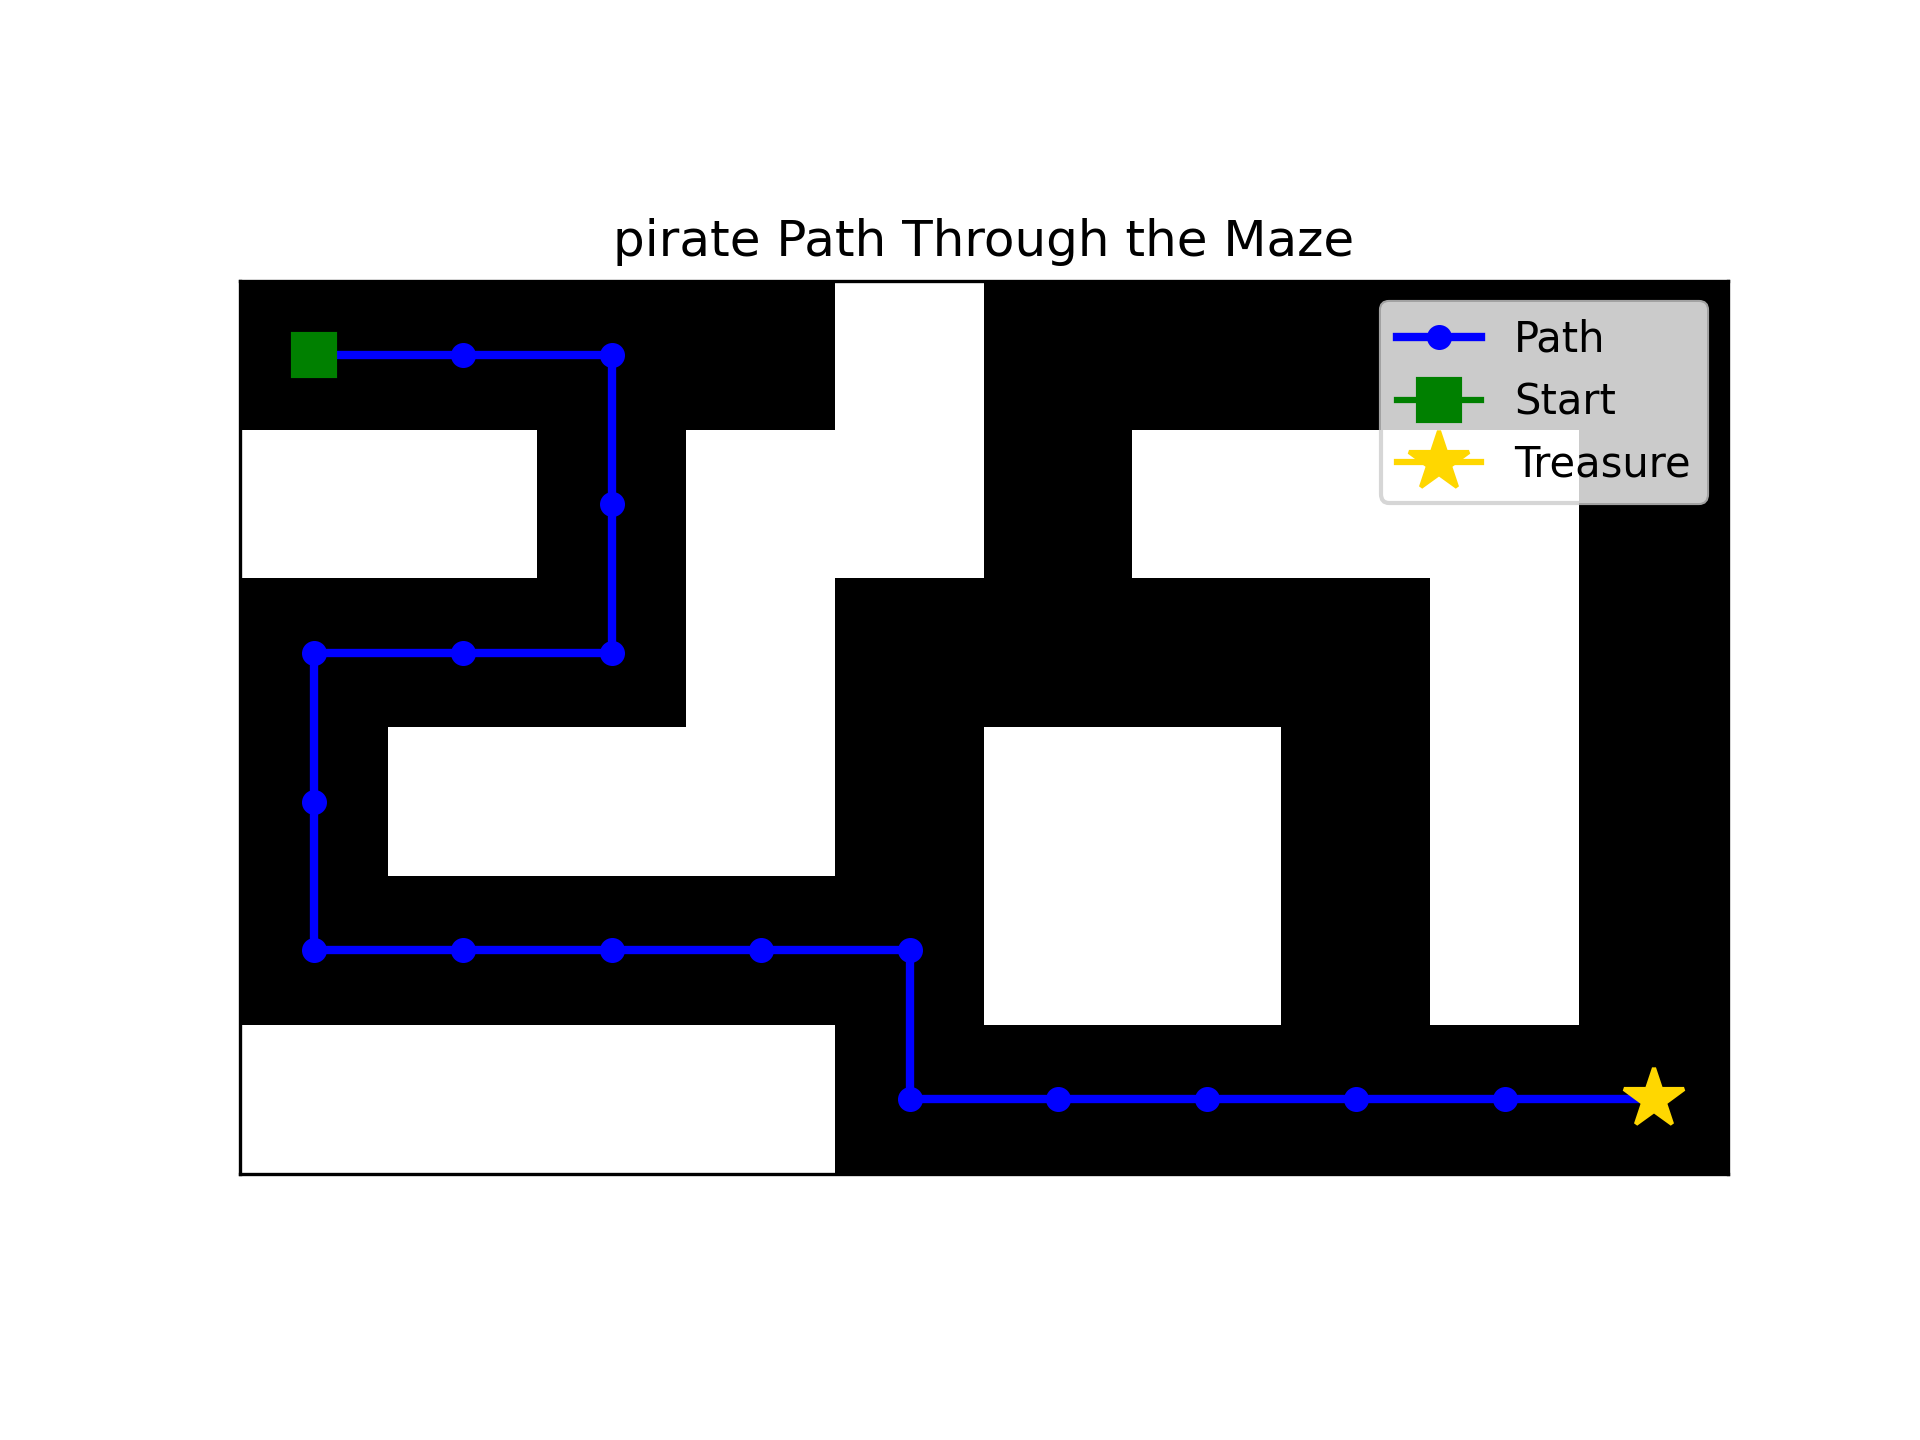
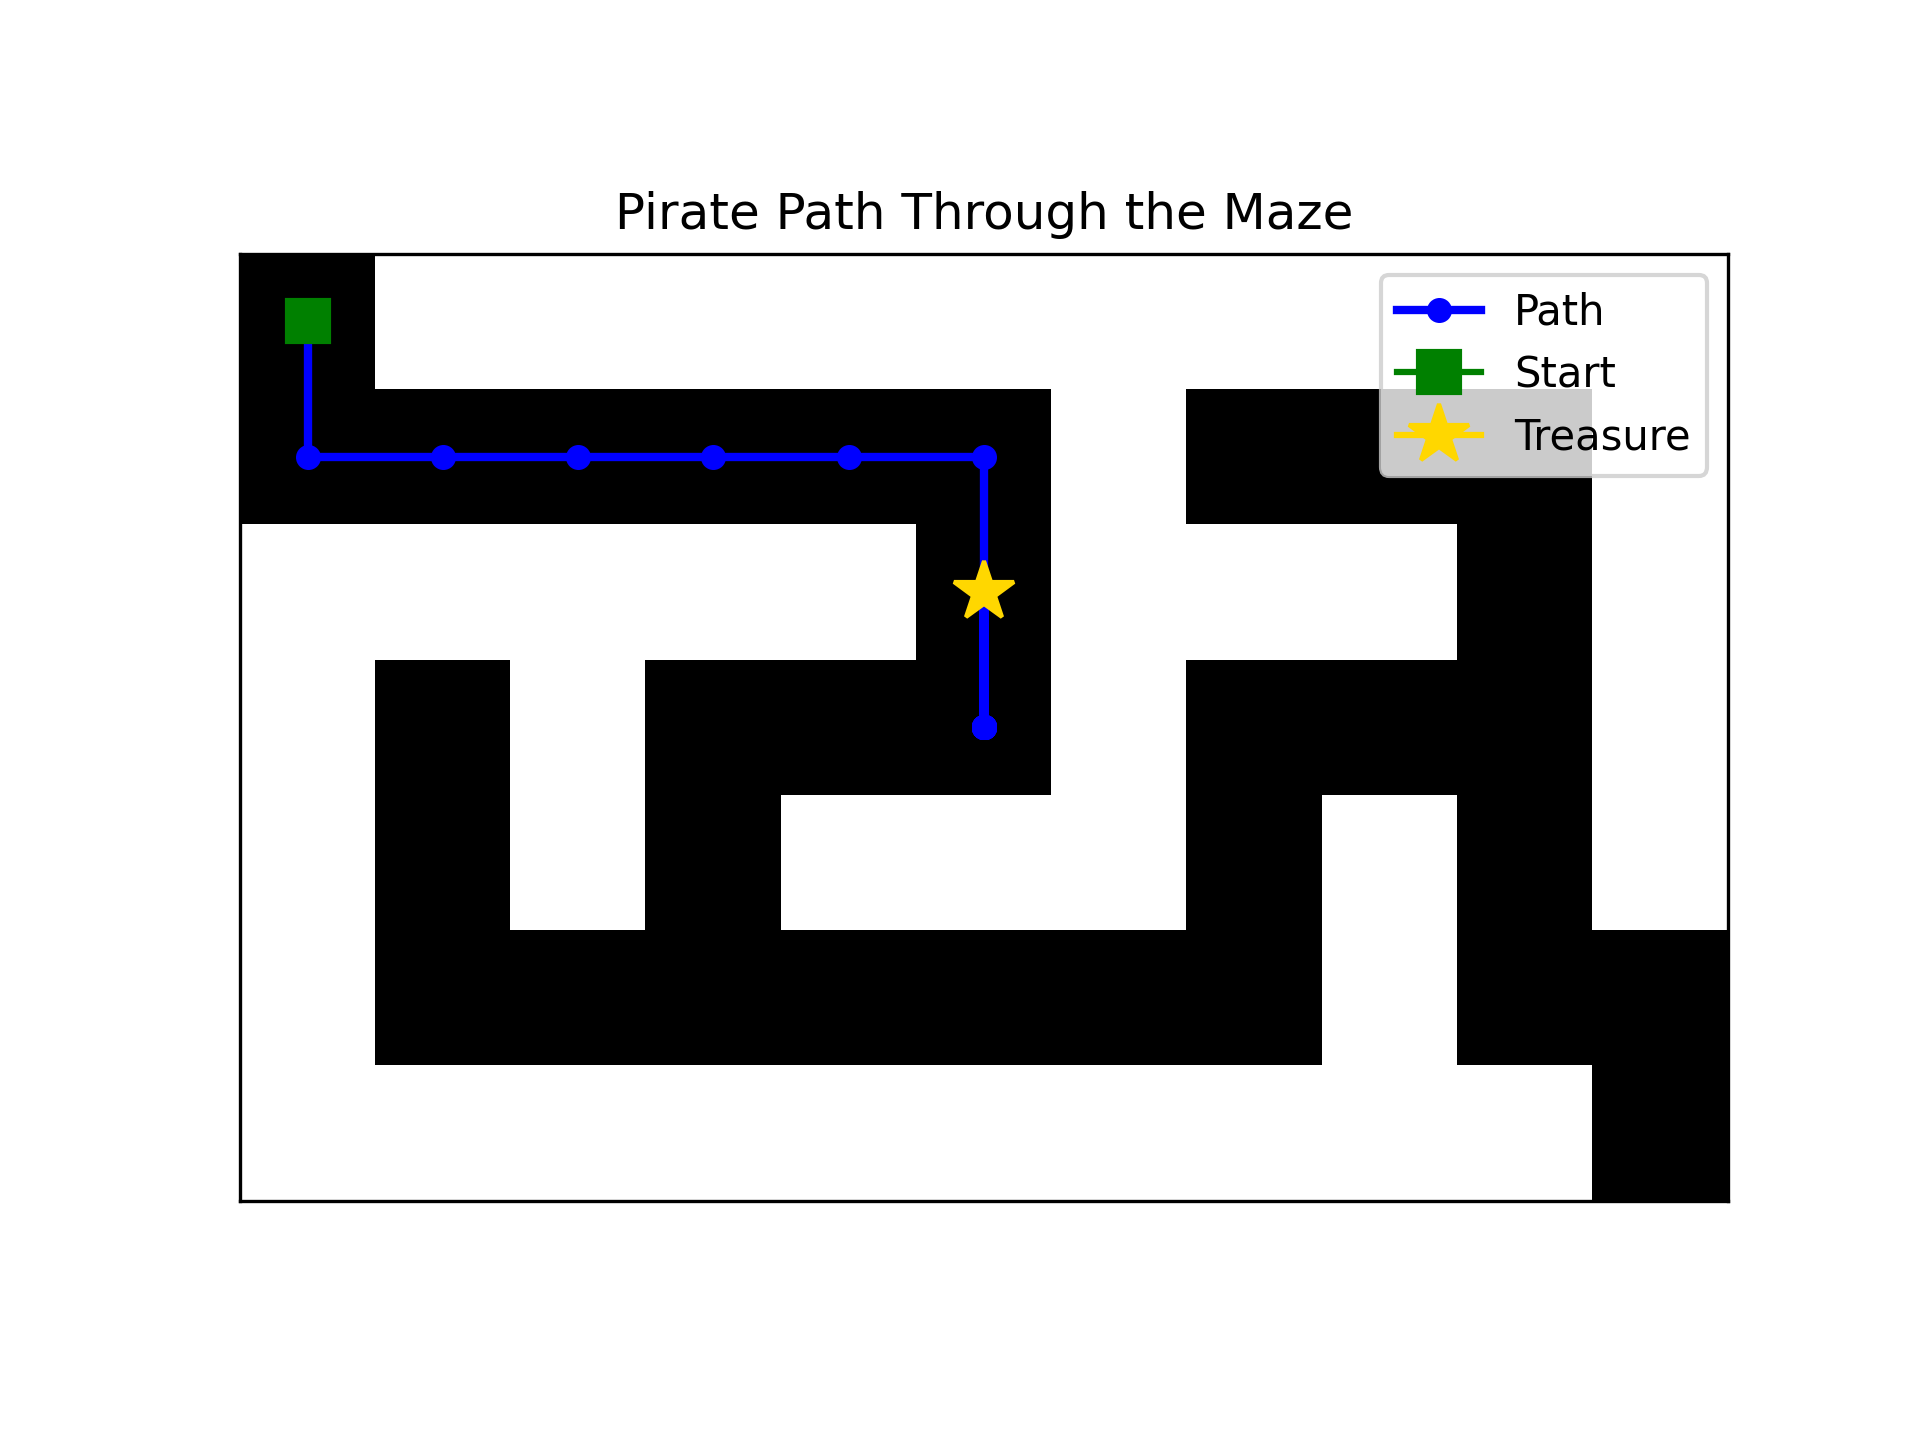
Converted inner repo to regular folder

diff --git a/TreasureHuntGame/index.html b/TreasureHuntGame/index.html
@@ -1,67 +1,92 @@
 <!DOCTYPE html>
 <html lang="en">
 <head>
-  <meta charset="UTF-8">
-  <title>Treasure Hunt AI Maze Solver</title>
+  <meta charset="UTF-8" />
+  <meta name="viewport" content="width=device-width, initial-scale=1.0"/>
+  <title>Treasure Hunt AI Agent</title>
+  <script src="https://cdn.jsdelivr.net/npm/chart.js"></script>
   <style>
     body {
-      font-family: sans-serif;
-      max-width: 800px;
-      margin: auto;
-      padding: 2rem;
-      background: #f8f8f8;
-    }
-    h1 {
-      color: #333;
+      font-family: Arial, sans-serif;
+      text-align: center;
+      background: #f0f0f0;
+      padding: 20px;
     }
     img {
-      max-width: 100%;
+      max-width: 90%;
       height: auto;
-      border: 1px solid #ccc;
-      margin-top: 1rem;
+      margin: 20px 0;
+      border: 4px solid #333;
     }
-    code {
-      background: #eee;
-      padding: 0.2rem 0.4rem;
-      border-radius: 4px;
-    }
-    pre {
-      background: #eee;
-      padding: 1rem;
-      border-radius: 4px;
-      overflow-x: auto;
+    canvas {
+      max-width: 800px;
+      margin: 40px auto;
+      display: block;
     }
   </style>
 </head>
 <body>
-  <h1>🧠 Treasure Hunt AI Maze Solver</h1>
+  <h1>Treasure Hunt AI Agent</h1>
 
-  <p>
-    This Python-based project generates solvable mazes and trains an AI agent to navigate them using a reinforcement learning algorithm accelerated by pathfinding techniques.
-  </p>
+  <h2>Final Maze Path</h2>
+  <img src="pirate_path.png" alt="Maze with Agent Path" />
 
-  <h2>✨ Features</h2>
-  <ul>
-    <li>Procedural maze generation</li>
-    <li>Pathfinding-enhanced reinforcement learning</li>
-    <li>Real-time solving visualization (optional demo)</li>
-  </ul>
+  <h2>Agent Performance Over Episodes</h2>
+  <canvas id="episodeChart"></canvas>
 
-  <h2>🎥 Demo</h2>
-  <p>If you've added a demo, it will appear below:</p>
-  <img src="demo.gif" alt="AI solving a maze">
+  <script>
+    fetch("episode_rewards.json")
+      .then(response => {
+        if (!response.ok) {
+          throw new Error(`HTTP error! status: ${response.status}`);
+        }
+        return response.json();
+      })
+      .then(data => {
+        const ctx = document.getElementById('episodeChart').getContext('2d');
 
-  <h2>📦 Source Code</h2>
-  <p>
-    <a href="https://github.com/Chart5893/Chart5893.github.io/tree/main/TreasureHuntGame" target="_blank">View code on GitHub</a>
-  </p>
-
-  <h2>🚀 How to Run</h2>
-  <pre>
-git clone https://github.com/Chart5893/Chart5893.github.io
-cd TreasureHuntGame
-python main.py
-  </pre>
-
+        new Chart(ctx, {
+          type: 'line',
+          data: {
+            labels: data.map((_, i) => i + 1), // Episodes 1 to N
+            datasets: [{
+              label: 'Total Reward per Episode',
+              data: data,
+              borderColor: 'blue',
+              backgroundColor: 'lightblue',
+              fill: false,
+              tension: 0.2,
+            }]
+          },
+          options: {
+            responsive: true,
+            plugins: {
+              legend: {
+                display: true,
+                position: 'top'
+              }
+            },
+            scales: {
+              x: {
+                title: {
+                  display: true,
+                  text: 'Episode'
+                }
+              },
+              y: {
+                title: {
+                  display: true,
+                  text: 'Total Reward'
+                }
+              }
+            }
+          }
+        });
+      })
+      .catch(err => {
+        console.error("Failed to load episode_rewards.json", err);
+        document.getElementById('episodeChart').insertAdjacentHTML('afterend', '<p style="color: red;">Failed to load training data. Make sure episode_rewards.json is in the same directory as this HTML file.</p>');
+      });
+  </script>
 </body>
 </html>

diff --git a/TreasureHuntGame/main.py b/TreasureHuntGame/main.py
@@ -1,10 +1,11 @@
 import matplotlib.pyplot as plt
 import numpy as np
+import json
 from maze_generator import generate_maze
 from TreasureMaze import TreasureMaze
 from GameExperience import GameExperience
 from tensorflow.keras.models import Sequential
-from tensorflow.keras.layers import Dense 
+from tensorflow.keras.layers import Dense
 from tensorflow.keras.optimizers import Adam
 
 # === Init dummy env to get input shape ===
@@ -21,7 +22,8 @@ model.compile(optimizer=Adam(learning_rate=0.001), loss='mse')
 
 # === Experience ===
 experience = GameExperience(model, max_memory=1000, discount=0.95)
-
+# === Episode Rewards ===
+episode_rewards = []
 # === Training Parameters ===
 episodes = 200
 epsilon = 1.0
@@ -30,17 +32,28 @@ epsilon_decay = 0.995
 max_steps = 100
 
 for episode in range(episodes):
-    maze_layout = generate_maze(6, 10)
-    env = TreasureMaze(maze_layout)
+    # Keep regenerating the maze until a valid starting position is found
+    while True:
+        maze_layout = generate_maze(6, 10)
+        env = TreasureMaze(maze_layout)
+        if env.valid_actions():
+            break
+        print("Invalid maze (no valid moves from start). Regenerating...")
+
     state = env.observe()
     total_reward = 0
 
     for step in range(max_steps):
+        valid = env.valid_actions()
+        if not valid:
+            print("No valid actions, breaking.")
+            break
+
         if np.random.rand() < epsilon:
-            action = np.random.choice(env.valid_actions())
+            action = np.random.choice(valid)
         else:
             q_values = model.predict(state, verbose=0)[0]
-            valid_q = [(i, q) for i, q in enumerate(q_values) if i in env.valid_actions()]
+            valid_q = [(i, q) for i, q in enumerate(q_values) if i in valid]
             action = max(valid_q, key=lambda x: x[1])[0]
 
         next_state, reward, status = env.act(action)
@@ -52,26 +65,30 @@ for episode in range(episodes):
         if done:
             break
 
-    inputs, targets = experience.get_data(batch_size=32)
-    model.train_on_batch(inputs, targets)
+    if experience.memory:
+        inputs, targets = experience.get_data()
+        model.train_on_batch(inputs, targets)
 
     if epsilon > epsilon_min:
         epsilon *= epsilon_decay
-
-    print(f"Episode {episode+1}/{episodes} - Total Reward: {total_reward:.2f} - Epsilon: {epsilon:.3f}")
+    episode_rewards.append(total_reward)
+    print(f"Episode {episode + 1}/{episodes} - Total Reward: {total_reward:.2f} - Epsilon: {epsilon:.3f}")
 
 print("Training complete!")
 
+with open("episode_rewards.json", "w") as f:
+    json.dump(episode_rewards,f)
 # === Visualization ===
 def plot_maze(maze, path):
     maze = np.array(maze)
     fig, ax = plt.subplots()
     ax.imshow(maze, cmap='gray_r')
 
-    y, x = zip(*path)
-    ax.plot(x, y, marker='o', color='blue', linewidth=2, markersize=5, label='Path')
-    ax.plot(x[0], y[0], marker='s', color='green', markersize=10, label='Start')
-    ax.plot(x[-1], y[-1], marker='*', color='gold', markersize=15, label='Treasure')
+    if path:
+        y, x = zip(*path)
+        ax.plot(x, y, marker='o', color='blue', linewidth=2, markersize=5, label='Path')
+        ax.plot(x[0], y[0], marker='s', color='green', markersize=10, label='Start')
+        ax.plot(x[-1], y[-1], marker='*', color='gold', markersize=15, label='Treasure')
 
     ax.set_title("Pirate Path Through the Maze")
     ax.set_xticks([])
@@ -80,21 +97,33 @@ def plot_maze(maze, path):
     plt.savefig("pirate_path.png", dpi=300)
     plt.show()
 
-# === Run Test ===
-test_maze = generate_maze(6, 10)
-env = TreasureMaze(test_maze)
+# === Run Final Test ===
+while True:
+    test_maze = generate_maze(6, 10)
+    env = TreasureMaze(test_maze)
+    if env.valid_actions():
+        break
+
 state = env.observe()
 path = []
 
 for _ in range(100):
-    path.append(env.agent_pos)
+    path.append(env.agent_pos())
+    valid = env.valid_actions()
+    if not valid:
+        print(f"No valid actions from {env.agent_pos}, stopping test.")
+        break
+
     q_values = model.predict(state, verbose=0)[0]
-    valid_q = [(i, q) for i, q in enumerate(q_values) if i in env.valid_actions()]
+    valid_q = [(i, q) for i, q in enumerate(q_values) if i in valid]
+    if not valid_q:
+        print("No valid Q-values, stopping test.")
+        break
     action = max(valid_q, key=lambda x: x[1])[0]
     state, reward, status = env.act(action)
     if status == 'win':
         print("Treasure Found!")
         break
 
-# === Visualize final maze ===
+# === Visualize the final maze
 plot_maze(test_maze, path)

diff --git a/TreasureHuntGame/maze_generator.py b/TreasureHuntGame/maze_generator.py
@@ -1,35 +1,44 @@
-import random 
+import random
 
-def generate_maze (rows, cols) : 
+def generate_maze(rows, cols):
+    # Ensure rows and cols are odd to simplify carving
+    if rows % 2 == 0:
+        rows += 1
+    if cols % 2 == 0:
+        cols += 1
+
+    # Create a grid full of walls (0)
     maze = [[0 for _ in range(cols)] for _ in range(rows)]
 
-    def neighbors(r,c):
-        # returns valid neighbors for maze carving in 2-step increments
-        dirs = [(2.0), (-2,0), (0,2), (0,-2)]
+    def neighbors(r, c):
+        dirs = [(2, 0), (-2, 0), (0, 2), (0, -2)]
         result = []
         for dr, dc in dirs:
-            nr, nc =r +dr, c + dc
-            if 0 <= nr < rows and 0 <= nc < cols:
+            nr, nc = r + dr, c + dc
+            if 0 < nr < rows and 0 < nc < cols:
                 result.append((nr, nc))
         return result
-    def carve_passages_from(r,c):
-        maze[r][c] =1 #mark current cell as passage
+
+    def carve_passages_from(r, c):
+        maze[r][c] = 1  # current cell becomes path
         nbs = neighbors(r, c)
         random.shuffle(nbs)
         for nr, nc in nbs:
-            if maze[nr][nc]==0:
-            # if not carved 
-            #carve passage between current and neighbor
-                maze[(r+nr)//2][(c+nc)//2] = 1
+            if maze[nr][nc] == 0:
+                maze[(r + nr) // 2][(c + nc) // 2] = 1  # open wall between
                 carve_passages_from(nr, nc)
 
-    # Start carving from the top-left corner(0,0) or (1.1) if even dims
-    start_r = 0 if rows %2 == 1 else 1
-    start_c = 0 if cols %2 == 1 else 1
+    # Always start in a safe spot
+    start_r, start_c = 1, 1
     carve_passages_from(start_r, start_c)
 
-    # Ensure start and end cells are open 
+    # Force opening at top-left and bottom-right corners
     maze[0][0] = 1
-    maze[rows-1][cols-1] = 1
+    if maze[1][0] == 0 and maze[0][1] == 0:
+        maze[1][0] = 1  # ensure at least one move from [0][0]
+
+    maze[rows - 1][cols - 1] = 1
+    if maze[rows - 2][cols - 1] == 0 and maze[rows - 1][cols - 2] == 0:
+        maze[rows - 2][cols - 1] = 1  # ensure one entry to goal
 
     return maze

diff --git a/TreasureHuntGame/TreasureMaze.py b/TreasureHuntGame/TreasureMaze.py
@@ -173,3 +173,7 @@ class TreasureMaze(object):
 
         return actions
 
+        # Returns current (row, col) position of the agent
+    def agent_pos(self):
+        row, col, _ = self.state
+        return (row, col)
